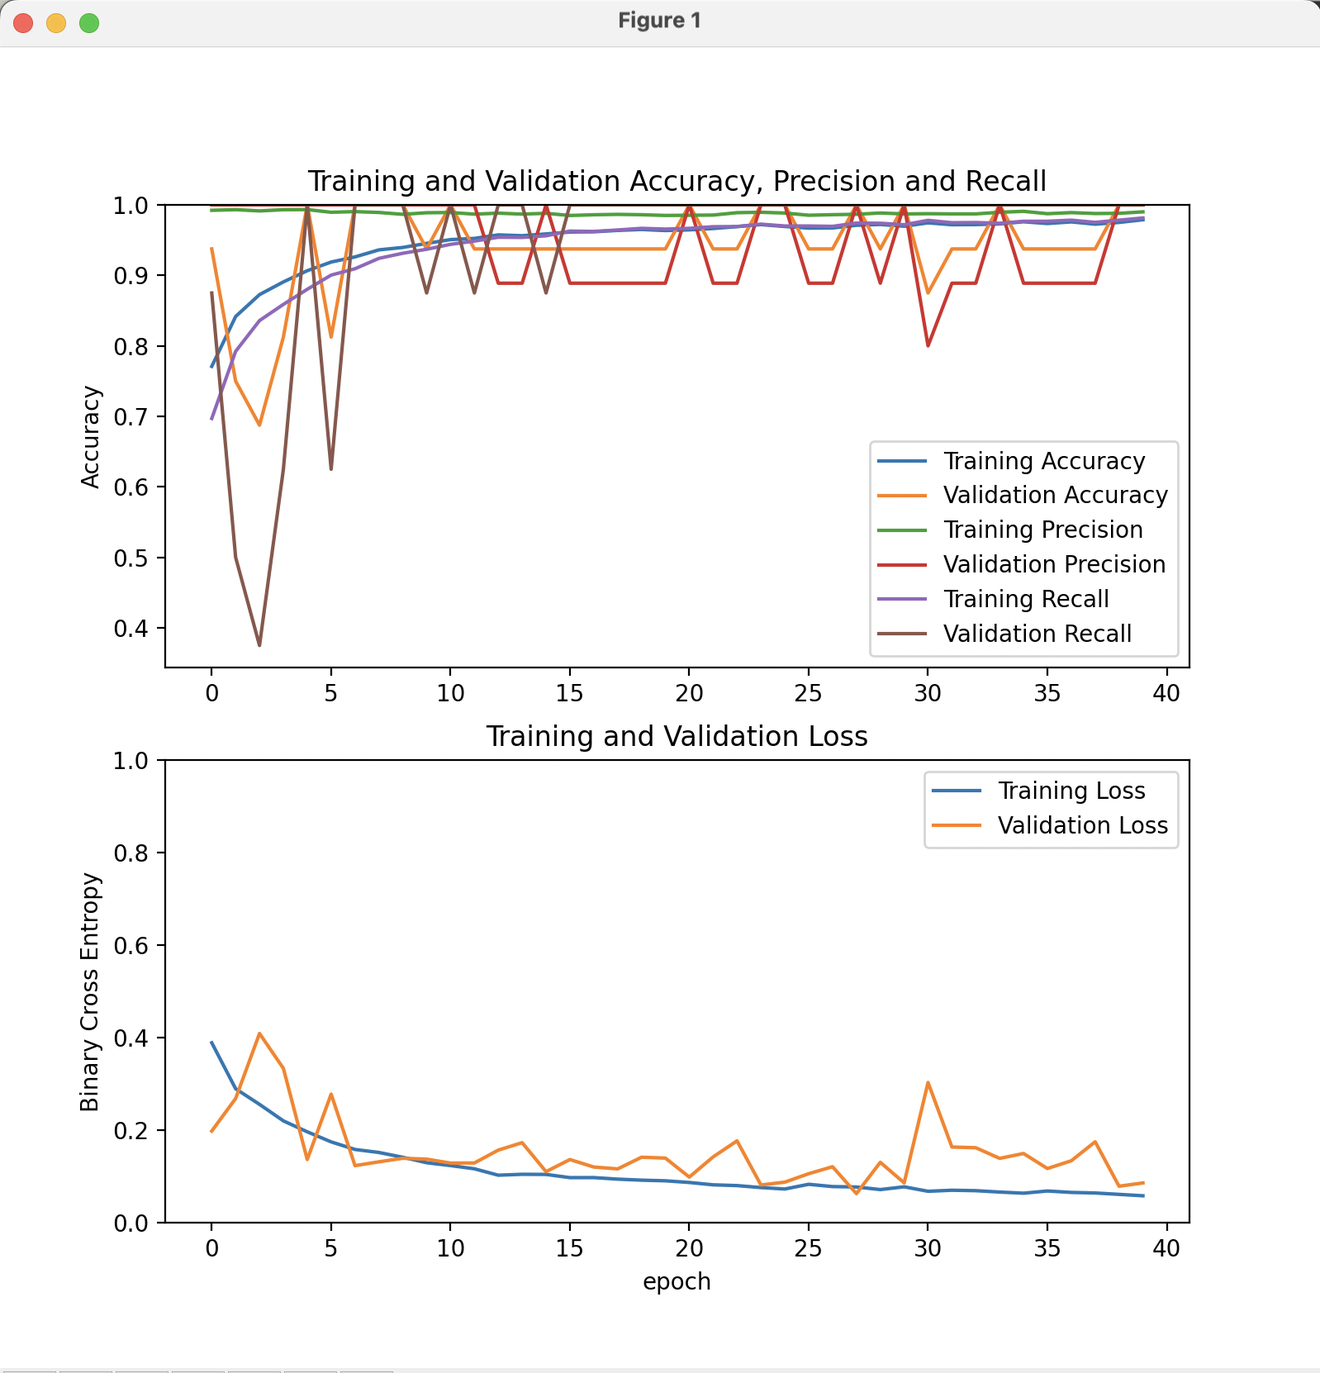
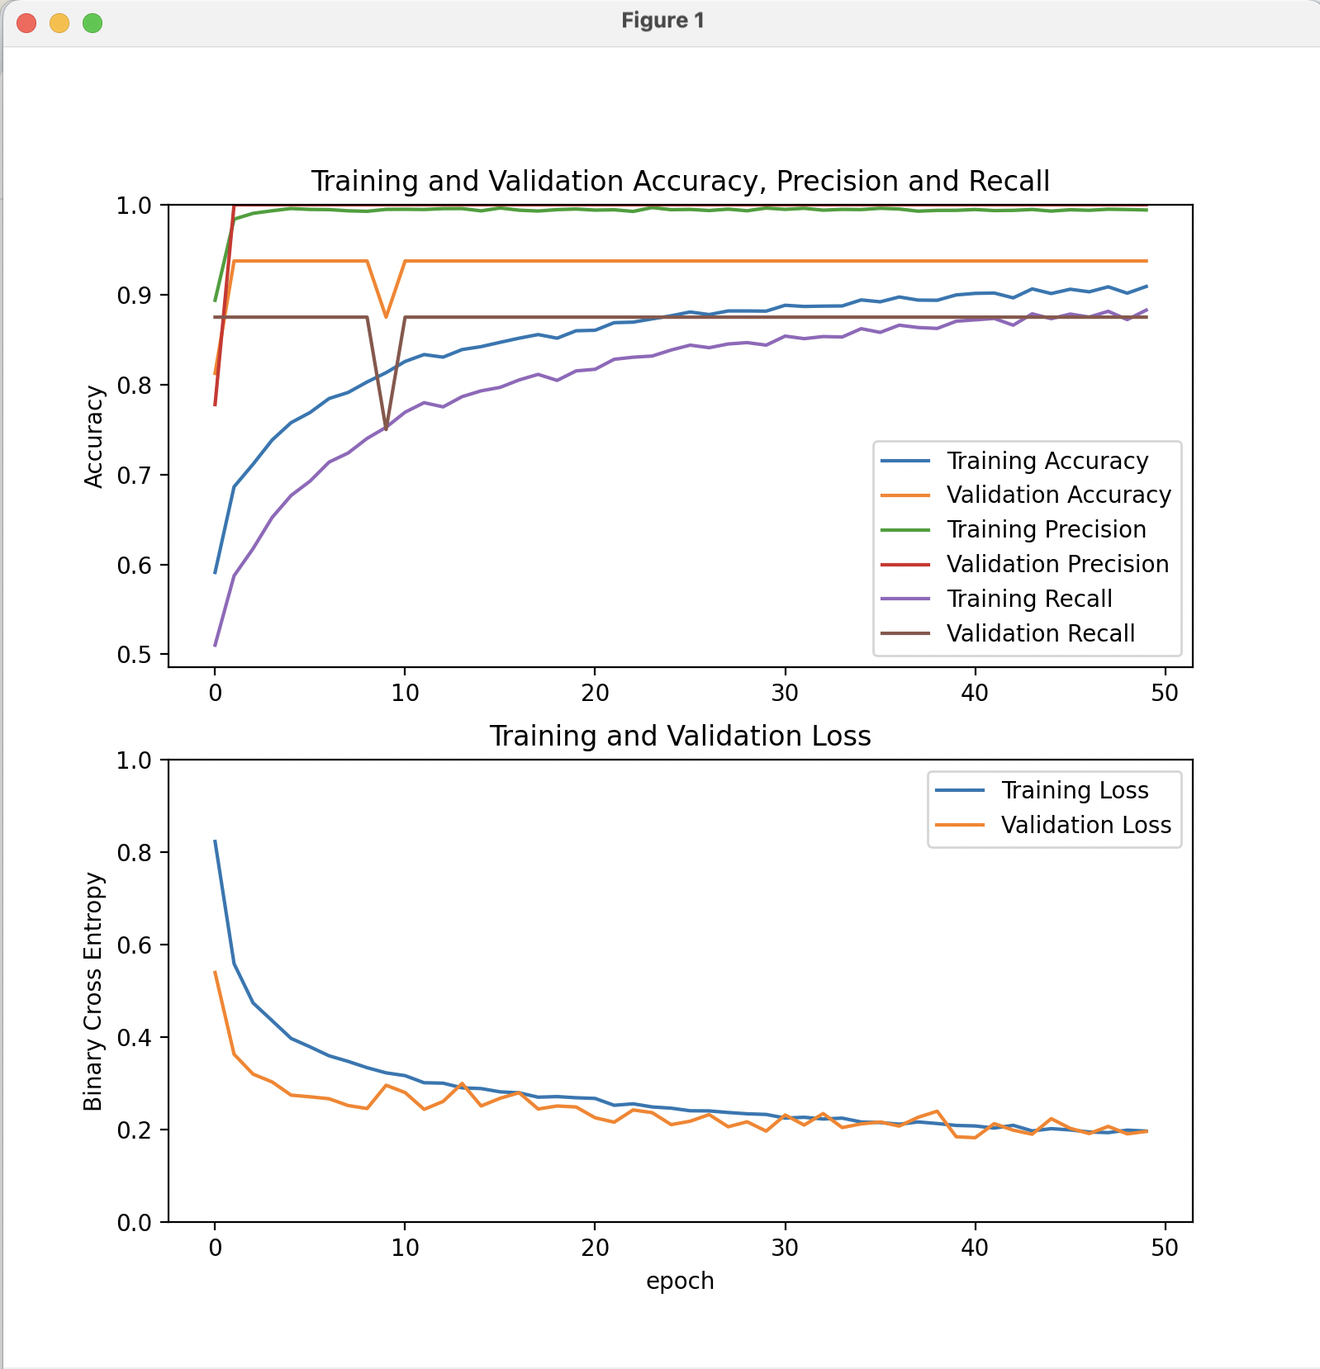
better loss convergence

diff --git a/kaggle/pneumonia/pneumonia.py b/kaggle/pneumonia/pneumonia.py
@@ -28,7 +28,7 @@ def load_images():
         return tf.keras.utils.image_dataset_from_directory(
             directory,
             shuffle=True,
-            batch_size=32,
+            batch_size=64,
             image_size=(image_height, image_width))
 
     return [load_images_for(dir) for dir in [train_dir, val_dir, test_dir]]
@@ -77,7 +77,7 @@ def build_transfer_learning_model():
     outputs = Dense(1)(x)
     model = Model(inputs, outputs, name='pneumonia')
     # WARNING:absl:At this time, the v2.11+ optimizer `tf.keras.optimizers.Adam` runs slowly on M1/M2 Macs, please use the legacy Keras optimizer instead, located at `tf.keras.optimizers.legacy.Adam`.
-    model.compile(optimizer=tf.keras.optimizers.legacy.Adam(learning_rate=.0001),
+    model.compile(optimizer=tf.keras.optimizers.legacy.Adam(learning_rate=.00001),
                   loss=tf.keras.losses.BinaryCrossentropy(from_logits=True),
                   metrics=[tf.keras.metrics.BinaryAccuracy(name='accuracy'),
                            tf.keras.metrics.Precision(name='precision'),
@@ -87,7 +87,7 @@ def build_transfer_learning_model():
 
 
 def train_model(m, train, val, test):
-    hist = m.fit(train, epochs=40, validation_data=val)
+    hist = m.fit(train, epochs=50, validation_data=val)
     loss, accuracy, precision, recall = m.evaluate(test)
     print(f'the accuracy/precision/recall scores on the test dataset: {accuracy:.3f}/{precision:.3f}/{recall:.3f} with a loss of: {loss:.3f}')
 

diff --git a/kaggle/pneumonia/README.md b/kaggle/pneumonia/README.md
@@ -24,90 +24,110 @@ Found 5216 files belonging to 2 classes.
 Found 16 files belonging to 2 classes.
 Found 624 files belonging to 2 classes.
 in the training set 2 class names to classify the images for: ['NORMAL', 'PNEUMONIA']
-image batch shape: (32, 224, 224, 3)
-image label shape: (32,)
-Epoch 1/40
-163/163 [==============================] - 11s 56ms/step - loss: 0.3888 - accuracy: 0.7709 - precision: 0.9923 - recall: 0.6970 - val_loss: 0.1980 - val_accuracy: 0.9375 - val_precision: 1.0000 - val_recall: 0.8750
-Epoch 2/40
-163/163 [==============================] - 8s 49ms/step - loss: 0.2894 - accuracy: 0.8416 - precision: 0.9932 - recall: 0.7923 - val_loss: 0.2684 - val_accuracy: 0.7500 - val_precision: 1.0000 - val_recall: 0.5000
-Epoch 3/40
-163/163 [==============================] - 8s 49ms/step - loss: 0.2557 - accuracy: 0.8727 - precision: 0.9914 - recall: 0.8359 - val_loss: 0.4089 - val_accuracy: 0.6875 - val_precision: 1.0000 - val_recall: 0.3750
-Epoch 4/40
-163/163 [==============================] - 8s 49ms/step - loss: 0.2200 - accuracy: 0.8907 - precision: 0.9931 - recall: 0.8588 - val_loss: 0.3334 - val_accuracy: 0.8125 - val_precision: 1.0000 - val_recall: 0.6250
-Epoch 5/40
-163/163 [==============================] - 8s 48ms/step - loss: 0.1963 - accuracy: 0.9066 - precision: 0.9933 - recall: 0.8803 - val_loss: 0.1364 - val_accuracy: 1.0000 - val_precision: 1.0000 - val_recall: 1.0000
-Epoch 6/40
-163/163 [==============================] - 8s 50ms/step - loss: 0.1746 - accuracy: 0.9189 - precision: 0.9895 - recall: 0.9004 - val_loss: 0.2778 - val_accuracy: 0.8125 - val_precision: 1.0000 - val_recall: 0.6250
-Epoch 7/40
-163/163 [==============================] - 8s 50ms/step - loss: 0.1582 - accuracy: 0.9262 - precision: 0.9904 - recall: 0.9094 - val_loss: 0.1232 - val_accuracy: 1.0000 - val_precision: 1.0000 - val_recall: 1.0000
-Epoch 8/40
-163/163 [==============================] - 8s 49ms/step - loss: 0.1517 - accuracy: 0.9362 - precision: 0.9892 - recall: 0.9241 - val_loss: 0.1315 - val_accuracy: 1.0000 - val_precision: 1.0000 - val_recall: 1.0000
-Epoch 9/40
-163/163 [==============================] - 8s 47ms/step - loss: 0.1413 - accuracy: 0.9396 - precision: 0.9866 - recall: 0.9314 - val_loss: 0.1391 - val_accuracy: 1.0000 - val_precision: 1.0000 - val_recall: 1.0000
-Epoch 10/40
-163/163 [==============================] - 8s 48ms/step - loss: 0.1295 - accuracy: 0.9454 - precision: 0.9888 - recall: 0.9370 - val_loss: 0.1373 - val_accuracy: 0.9375 - val_precision: 1.0000 - val_recall: 0.8750
-Epoch 11/40
-163/163 [==============================] - 8s 48ms/step - loss: 0.1234 - accuracy: 0.9507 - precision: 0.9892 - recall: 0.9440 - val_loss: 0.1288 - val_accuracy: 1.0000 - val_precision: 1.0000 - val_recall: 1.0000
-Epoch 12/40
-163/163 [==============================] - 8s 48ms/step - loss: 0.1164 - accuracy: 0.9525 - precision: 0.9868 - recall: 0.9486 - val_loss: 0.1290 - val_accuracy: 0.9375 - val_precision: 1.0000 - val_recall: 0.8750
-Epoch 13/40
-163/163 [==============================] - 8s 47ms/step - loss: 0.1026 - accuracy: 0.9574 - precision: 0.9882 - recall: 0.9541 - val_loss: 0.1568 - val_accuracy: 0.9375 - val_precision: 0.8889 - val_recall: 1.0000
-Epoch 14/40
-163/163 [==============================] - 8s 48ms/step - loss: 0.1045 - accuracy: 0.9563 - precision: 0.9869 - recall: 0.9538 - val_loss: 0.1728 - val_accuracy: 0.9375 - val_precision: 0.8889 - val_recall: 1.0000
-Epoch 15/40
-163/163 [==============================] - 8s 48ms/step - loss: 0.1042 - accuracy: 0.9588 - precision: 0.9880 - recall: 0.9561 - val_loss: 0.1102 - val_accuracy: 0.9375 - val_precision: 1.0000 - val_recall: 0.8750
-Epoch 16/40
-163/163 [==============================] - 8s 49ms/step - loss: 0.0973 - accuracy: 0.9615 - precision: 0.9850 - recall: 0.9628 - val_loss: 0.1364 - val_accuracy: 0.9375 - val_precision: 0.8889 - val_recall: 1.0000
-Epoch 17/40
-163/163 [==============================] - 8s 48ms/step - loss: 0.0974 - accuracy: 0.9618 - precision: 0.9860 - recall: 0.9623 - val_loss: 0.1202 - val_accuracy: 0.9375 - val_precision: 0.8889 - val_recall: 1.0000
-Epoch 18/40
-163/163 [==============================] - 8s 48ms/step - loss: 0.0941 - accuracy: 0.9638 - precision: 0.9865 - recall: 0.9644 - val_loss: 0.1161 - val_accuracy: 0.9375 - val_precision: 0.8889 - val_recall: 1.0000
-Epoch 19/40
-163/163 [==============================] - 8s 48ms/step - loss: 0.0918 - accuracy: 0.9651 - precision: 0.9860 - recall: 0.9667 - val_loss: 0.1414 - val_accuracy: 0.9375 - val_precision: 0.8889 - val_recall: 1.0000
-Epoch 20/40
-163/163 [==============================] - 8s 47ms/step - loss: 0.0905 - accuracy: 0.9636 - precision: 0.9850 - recall: 0.9657 - val_loss: 0.1395 - val_accuracy: 0.9375 - val_precision: 0.8889 - val_recall: 1.0000
-Epoch 21/40
-163/163 [==============================] - 8s 47ms/step - loss: 0.0868 - accuracy: 0.9645 - precision: 0.9853 - recall: 0.9667 - val_loss: 0.0985 - val_accuracy: 1.0000 - val_precision: 1.0000 - val_recall: 1.0000
-Epoch 22/40
-163/163 [==============================] - 8s 48ms/step - loss: 0.0818 - accuracy: 0.9664 - precision: 0.9856 - recall: 0.9690 - val_loss: 0.1422 - val_accuracy: 0.9375 - val_precision: 0.8889 - val_recall: 1.0000
-Epoch 23/40
-163/163 [==============================] - 8s 47ms/step - loss: 0.0801 - accuracy: 0.9691 - precision: 0.9889 - recall: 0.9693 - val_loss: 0.1767 - val_accuracy: 0.9375 - val_precision: 0.8889 - val_recall: 1.0000
-Epoch 24/40
-163/163 [==============================] - 8s 48ms/step - loss: 0.0758 - accuracy: 0.9720 - precision: 0.9895 - recall: 0.9726 - val_loss: 0.0814 - val_accuracy: 1.0000 - val_precision: 1.0000 - val_recall: 1.0000
-Epoch 25/40
-163/163 [==============================] - 8s 49ms/step - loss: 0.0727 - accuracy: 0.9693 - precision: 0.9884 - recall: 0.9701 - val_loss: 0.0875 - val_accuracy: 1.0000 - val_precision: 1.0000 - val_recall: 1.0000
-Epoch 26/40
-163/163 [==============================] - 8s 48ms/step - loss: 0.0829 - accuracy: 0.9670 - precision: 0.9853 - recall: 0.9701 - val_loss: 0.1058 - val_accuracy: 0.9375 - val_precision: 0.8889 - val_recall: 1.0000
-Epoch 27/40
-163/163 [==============================] - 8s 49ms/step - loss: 0.0780 - accuracy: 0.9672 - precision: 0.9861 - recall: 0.9695 - val_loss: 0.1209 - val_accuracy: 0.9375 - val_precision: 0.8889 - val_recall: 1.0000
-Epoch 28/40
-163/163 [==============================] - 8s 49ms/step - loss: 0.0771 - accuracy: 0.9711 - precision: 0.9867 - recall: 0.9742 - val_loss: 0.0627 - val_accuracy: 1.0000 - val_precision: 1.0000 - val_recall: 1.0000
-Epoch 29/40
-163/163 [==============================] - 8s 48ms/step - loss: 0.0715 - accuracy: 0.9722 - precision: 0.9885 - recall: 0.9739 - val_loss: 0.1304 - val_accuracy: 0.9375 - val_precision: 0.8889 - val_recall: 1.0000
-Epoch 30/40
-163/163 [==============================] - 8s 48ms/step - loss: 0.0774 - accuracy: 0.9697 - precision: 0.9872 - recall: 0.9719 - val_loss: 0.0860 - val_accuracy: 1.0000 - val_precision: 1.0000 - val_recall: 1.0000
-Epoch 31/40
-163/163 [==============================] - 8s 48ms/step - loss: 0.0678 - accuracy: 0.9745 - precision: 0.9875 - recall: 0.9781 - val_loss: 0.3030 - val_accuracy: 0.8750 - val_precision: 0.8000 - val_recall: 1.0000
-Epoch 32/40
-163/163 [==============================] - 8s 48ms/step - loss: 0.0701 - accuracy: 0.9718 - precision: 0.9872 - recall: 0.9747 - val_loss: 0.1635 - val_accuracy: 0.9375 - val_precision: 0.8889 - val_recall: 1.0000
-Epoch 33/40
-163/163 [==============================] - 8s 47ms/step - loss: 0.0691 - accuracy: 0.9720 - precision: 0.9872 - recall: 0.9750 - val_loss: 0.1619 - val_accuracy: 0.9375 - val_precision: 0.8889 - val_recall: 1.0000
-Epoch 34/40
-163/163 [==============================] - 8s 48ms/step - loss: 0.0661 - accuracy: 0.9730 - precision: 0.9895 - recall: 0.9739 - val_loss: 0.1389 - val_accuracy: 1.0000 - val_precision: 1.0000 - val_recall: 1.0000
-Epoch 35/40
-163/163 [==============================] - 8s 48ms/step - loss: 0.0637 - accuracy: 0.9760 - precision: 0.9908 - recall: 0.9768 - val_loss: 0.1494 - val_accuracy: 0.9375 - val_precision: 0.8889 - val_recall: 1.0000
-Epoch 36/40
-163/163 [==============================] - 8s 49ms/step - loss: 0.0684 - accuracy: 0.9735 - precision: 0.9875 - recall: 0.9768 - val_loss: 0.1170 - val_accuracy: 0.9375 - val_precision: 0.8889 - val_recall: 1.0000
-Epoch 37/40
-163/163 [==============================] - 8s 49ms/step - loss: 0.0653 - accuracy: 0.9758 - precision: 0.9890 - recall: 0.9783 - val_loss: 0.1338 - val_accuracy: 0.9375 - val_precision: 0.8889 - val_recall: 1.0000
-Epoch 38/40
-163/163 [==============================] - 8s 48ms/step - loss: 0.0641 - accuracy: 0.9726 - precision: 0.9877 - recall: 0.9752 - val_loss: 0.1748 - val_accuracy: 0.9375 - val_precision: 0.8889 - val_recall: 1.0000
-Epoch 39/40
-163/163 [==============================] - 8s 49ms/step - loss: 0.0611 - accuracy: 0.9751 - precision: 0.9880 - recall: 0.9783 - val_loss: 0.0787 - val_accuracy: 1.0000 - val_precision: 1.0000 - val_recall: 1.0000
-Epoch 40/40
-163/163 [==============================] - 8s 48ms/step - loss: 0.0581 - accuracy: 0.9789 - precision: 0.9901 - recall: 0.9814 - val_loss: 0.0859 - val_accuracy: 1.0000 - val_precision: 1.0000 - val_recall: 1.0000
-20/20 [==============================] - 1s 28ms/step - loss: 0.4931 - accuracy: 0.8558 - precision: 0.8247 - recall: 0.9769
-the accuracy/precision/recall scores on the test dataset: 0.856/0.825/0.977 with a loss of: 0.493
+image batch shape: (64, 224, 224, 3)
+image label shape: (64,)
+Epoch 1/50
+82/82 [==============================] - 9s 79ms/step - loss: 0.8230 - accuracy: 0.5911 - precision: 0.8938 - recall: 0.5102 - val_loss: 0.5395 - val_accuracy: 0.8125 - val_precision: 0.7778 - val_recall: 0.8750
+Epoch 2/50
+82/82 [==============================] - 5s 59ms/step - loss: 0.5588 - accuracy: 0.6863 - precision: 0.9840 - recall: 0.5874 - val_loss: 0.3628 - val_accuracy: 0.9375 - val_precision: 1.0000 - val_recall: 0.8750
+Epoch 3/50
+82/82 [==============================] - 5s 58ms/step - loss: 0.4739 - accuracy: 0.7115 - precision: 0.9905 - recall: 0.6175 - val_loss: 0.3198 - val_accuracy: 0.9375 - val_precision: 1.0000 - val_recall: 0.8750
+Epoch 4/50
+82/82 [==============================] - 5s 60ms/step - loss: 0.4356 - accuracy: 0.7383 - precision: 0.9933 - recall: 0.6521 - val_loss: 0.3030 - val_accuracy: 0.9375 - val_precision: 1.0000 - val_recall: 0.8750
+Epoch 5/50
+82/82 [==============================] - 5s 58ms/step - loss: 0.3971 - accuracy: 0.7577 - precision: 0.9958 - recall: 0.6766 - val_loss: 0.2744 - val_accuracy: 0.9375 - val_precision: 1.0000 - val_recall: 0.8750
+Epoch 6/50
+82/82 [==============================] - 5s 60ms/step - loss: 0.3788 - accuracy: 0.7690 - precision: 0.9948 - recall: 0.6926 - val_loss: 0.2708 - val_accuracy: 0.9375 - val_precision: 1.0000 - val_recall: 0.8750
+Epoch 7/50
+82/82 [==============================] - 5s 59ms/step - loss: 0.3594 - accuracy: 0.7845 - precision: 0.9946 - recall: 0.7138 - val_loss: 0.2666 - val_accuracy: 0.9375 - val_precision: 1.0000 - val_recall: 0.8750
+Epoch 8/50
+82/82 [==============================] - 5s 59ms/step - loss: 0.3475 - accuracy: 0.7912 - precision: 0.9933 - recall: 0.7239 - val_loss: 0.2520 - val_accuracy: 0.9375 - val_precision: 1.0000 - val_recall: 0.8750
+Epoch 9/50
+82/82 [==============================] - 5s 58ms/step - loss: 0.3338 - accuracy: 0.8029 - precision: 0.9927 - recall: 0.7401 - val_loss: 0.2454 - val_accuracy: 0.9375 - val_precision: 1.0000 - val_recall: 0.8750
+Epoch 10/50
+82/82 [==============================] - 5s 59ms/step - loss: 0.3226 - accuracy: 0.8133 - precision: 0.9949 - recall: 0.7525 - val_loss: 0.2958 - val_accuracy: 0.8750 - val_precision: 1.0000 - val_recall: 0.7500
+Epoch 11/50
+82/82 [==============================] - 5s 60ms/step - loss: 0.3166 - accuracy: 0.8257 - precision: 0.9950 - recall: 0.7693 - val_loss: 0.2800 - val_accuracy: 0.9375 - val_precision: 1.0000 - val_recall: 0.8750
+Epoch 12/50
+82/82 [==============================] - 5s 58ms/step - loss: 0.3012 - accuracy: 0.8334 - precision: 0.9947 - recall: 0.7799 - val_loss: 0.2437 - val_accuracy: 0.9375 - val_precision: 1.0000 - val_recall: 0.8750
+Epoch 13/50
+82/82 [==============================] - 5s 59ms/step - loss: 0.3003 - accuracy: 0.8305 - precision: 0.9957 - recall: 0.7752 - val_loss: 0.2608 - val_accuracy: 0.9375 - val_precision: 1.0000 - val_recall: 0.8750
+Epoch 14/50
+82/82 [==============================] - 5s 60ms/step - loss: 0.2902 - accuracy: 0.8390 - precision: 0.9958 - recall: 0.7866 - val_loss: 0.2997 - val_accuracy: 0.9375 - val_precision: 1.0000 - val_recall: 0.8750
+Epoch 15/50
+82/82 [==============================] - 5s 58ms/step - loss: 0.2886 - accuracy: 0.8422 - precision: 0.9932 - recall: 0.7930 - val_loss: 0.2510 - val_accuracy: 0.9375 - val_precision: 1.0000 - val_recall: 0.8750
+Epoch 16/50
+82/82 [==============================] - 5s 58ms/step - loss: 0.2816 - accuracy: 0.8470 - precision: 0.9965 - recall: 0.7969 - val_loss: 0.2677 - val_accuracy: 0.9375 - val_precision: 1.0000 - val_recall: 0.8750
+Epoch 17/50
+82/82 [==============================] - 5s 59ms/step - loss: 0.2794 - accuracy: 0.8516 - precision: 0.9939 - recall: 0.8052 - val_loss: 0.2797 - val_accuracy: 0.9375 - val_precision: 1.0000 - val_recall: 0.8750
+Epoch 18/50
+82/82 [==============================] - 5s 59ms/step - loss: 0.2700 - accuracy: 0.8556 - precision: 0.9931 - recall: 0.8114 - val_loss: 0.2445 - val_accuracy: 0.9375 - val_precision: 1.0000 - val_recall: 0.8750
+Epoch 19/50
+82/82 [==============================] - 5s 59ms/step - loss: 0.2713 - accuracy: 0.8516 - precision: 0.9946 - recall: 0.8046 - val_loss: 0.2509 - val_accuracy: 0.9375 - val_precision: 1.0000 - val_recall: 0.8750
+Epoch 20/50
+82/82 [==============================] - 5s 59ms/step - loss: 0.2688 - accuracy: 0.8599 - precision: 0.9953 - recall: 0.8152 - val_loss: 0.2488 - val_accuracy: 0.9375 - val_precision: 1.0000 - val_recall: 0.8750
+Epoch 21/50
+82/82 [==============================] - 5s 59ms/step - loss: 0.2673 - accuracy: 0.8604 - precision: 0.9940 - recall: 0.8170 - val_loss: 0.2254 - val_accuracy: 0.9375 - val_precision: 1.0000 - val_recall: 0.8750
+Epoch 22/50
+82/82 [==============================] - 5s 57ms/step - loss: 0.2525 - accuracy: 0.8689 - precision: 0.9944 - recall: 0.8281 - val_loss: 0.2159 - val_accuracy: 0.9375 - val_precision: 1.0000 - val_recall: 0.8750
+Epoch 23/50
+82/82 [==============================] - 5s 59ms/step - loss: 0.2557 - accuracy: 0.8694 - precision: 0.9926 - recall: 0.8305 - val_loss: 0.2424 - val_accuracy: 0.9375 - val_precision: 1.0000 - val_recall: 0.8750
+Epoch 24/50
+82/82 [==============================] - 5s 58ms/step - loss: 0.2489 - accuracy: 0.8731 - precision: 0.9969 - recall: 0.8317 - val_loss: 0.2366 - val_accuracy: 0.9375 - val_precision: 1.0000 - val_recall: 0.8750
+Epoch 25/50
+82/82 [==============================] - 5s 59ms/step - loss: 0.2462 - accuracy: 0.8765 - precision: 0.9945 - recall: 0.8385 - val_loss: 0.2107 - val_accuracy: 0.9375 - val_precision: 1.0000 - val_recall: 0.8750
+Epoch 26/50
+82/82 [==============================] - 5s 58ms/step - loss: 0.2406 - accuracy: 0.8808 - precision: 0.9948 - recall: 0.8439 - val_loss: 0.2180 - val_accuracy: 0.9375 - val_precision: 1.0000 - val_recall: 0.8750
+Epoch 27/50
+82/82 [==============================] - 5s 57ms/step - loss: 0.2403 - accuracy: 0.8779 - precision: 0.9936 - recall: 0.8410 - val_loss: 0.2324 - val_accuracy: 0.9375 - val_precision: 1.0000 - val_recall: 0.8750
+Epoch 28/50
+82/82 [==============================] - 5s 59ms/step - loss: 0.2369 - accuracy: 0.8819 - precision: 0.9951 - recall: 0.8452 - val_loss: 0.2060 - val_accuracy: 0.9375 - val_precision: 1.0000 - val_recall: 0.8750
+Epoch 29/50
+82/82 [==============================] - 5s 59ms/step - loss: 0.2341 - accuracy: 0.8819 - precision: 0.9933 - recall: 0.8467 - val_loss: 0.2168 - val_accuracy: 0.9375 - val_precision: 1.0000 - val_recall: 0.8750
+Epoch 30/50
+82/82 [==============================] - 5s 56ms/step - loss: 0.2327 - accuracy: 0.8817 - precision: 0.9963 - recall: 0.8439 - val_loss: 0.1966 - val_accuracy: 0.9375 - val_precision: 1.0000 - val_recall: 0.8750
+Epoch 31/50
+82/82 [==============================] - 5s 58ms/step - loss: 0.2248 - accuracy: 0.8882 - precision: 0.9949 - recall: 0.8539 - val_loss: 0.2315 - val_accuracy: 0.9375 - val_precision: 1.0000 - val_recall: 0.8750
+Epoch 32/50
+82/82 [==============================] - 5s 58ms/step - loss: 0.2266 - accuracy: 0.8869 - precision: 0.9961 - recall: 0.8511 - val_loss: 0.2098 - val_accuracy: 0.9375 - val_precision: 1.0000 - val_recall: 0.8750
+Epoch 33/50
+82/82 [==============================] - 5s 59ms/step - loss: 0.2228 - accuracy: 0.8873 - precision: 0.9940 - recall: 0.8534 - val_loss: 0.2346 - val_accuracy: 0.9375 - val_precision: 1.0000 - val_recall: 0.8750
+Epoch 34/50
+82/82 [==============================] - 5s 59ms/step - loss: 0.2247 - accuracy: 0.8875 - precision: 0.9949 - recall: 0.8529 - val_loss: 0.2043 - val_accuracy: 0.9375 - val_precision: 1.0000 - val_recall: 0.8750
+Epoch 35/50
+82/82 [==============================] - 5s 59ms/step - loss: 0.2164 - accuracy: 0.8942 - precision: 0.9946 - recall: 0.8622 - val_loss: 0.2123 - val_accuracy: 0.9375 - val_precision: 1.0000 - val_recall: 0.8750
+Epoch 36/50
+82/82 [==============================] - 5s 59ms/step - loss: 0.2152 - accuracy: 0.8921 - precision: 0.9961 - recall: 0.8581 - val_loss: 0.2164 - val_accuracy: 0.9375 - val_precision: 1.0000 - val_recall: 0.8750
+Epoch 37/50
+82/82 [==============================] - 5s 59ms/step - loss: 0.2115 - accuracy: 0.8974 - precision: 0.9953 - recall: 0.8661 - val_loss: 0.2075 - val_accuracy: 0.9375 - val_precision: 1.0000 - val_recall: 0.8750
+Epoch 38/50
+82/82 [==============================] - 5s 59ms/step - loss: 0.2165 - accuracy: 0.8940 - precision: 0.9929 - recall: 0.8635 - val_loss: 0.2266 - val_accuracy: 0.9375 - val_precision: 1.0000 - val_recall: 0.8750
+Epoch 39/50
+82/82 [==============================] - 5s 59ms/step - loss: 0.2130 - accuracy: 0.8938 - precision: 0.9938 - recall: 0.8625 - val_loss: 0.2397 - val_accuracy: 0.9375 - val_precision: 1.0000 - val_recall: 0.8750
+Epoch 40/50
+82/82 [==============================] - 5s 59ms/step - loss: 0.2089 - accuracy: 0.8997 - precision: 0.9938 - recall: 0.8705 - val_loss: 0.1844 - val_accuracy: 0.9375 - val_precision: 1.0000 - val_recall: 0.8750
+Epoch 41/50
+82/82 [==============================] - 5s 58ms/step - loss: 0.2078 - accuracy: 0.9015 - precision: 0.9947 - recall: 0.8720 - val_loss: 0.1823 - val_accuracy: 0.9375 - val_precision: 1.0000 - val_recall: 0.8750
+Epoch 42/50
+82/82 [==============================] - 5s 57ms/step - loss: 0.2032 - accuracy: 0.9018 - precision: 0.9935 - recall: 0.8735 - val_loss: 0.2127 - val_accuracy: 0.9375 - val_precision: 1.0000 - val_recall: 0.8750
+Epoch 43/50
+82/82 [==============================] - 5s 58ms/step - loss: 0.2091 - accuracy: 0.8965 - precision: 0.9938 - recall: 0.8661 - val_loss: 0.1986 - val_accuracy: 0.9375 - val_precision: 1.0000 - val_recall: 0.8750
+Epoch 44/50
+82/82 [==============================] - 5s 59ms/step - loss: 0.1971 - accuracy: 0.9064 - precision: 0.9947 - recall: 0.8787 - val_loss: 0.1900 - val_accuracy: 0.9375 - val_precision: 1.0000 - val_recall: 0.8750
+Epoch 45/50
+82/82 [==============================] - 5s 59ms/step - loss: 0.2019 - accuracy: 0.9013 - precision: 0.9930 - recall: 0.8733 - val_loss: 0.2235 - val_accuracy: 0.9375 - val_precision: 1.0000 - val_recall: 0.8750
+Epoch 46/50
+82/82 [==============================] - 5s 59ms/step - loss: 0.1992 - accuracy: 0.9061 - precision: 0.9944 - recall: 0.8785 - val_loss: 0.2026 - val_accuracy: 0.9375 - val_precision: 1.0000 - val_recall: 0.8750
+Epoch 47/50
+82/82 [==============================] - 5s 60ms/step - loss: 0.1948 - accuracy: 0.9032 - precision: 0.9938 - recall: 0.8751 - val_loss: 0.1913 - val_accuracy: 0.9375 - val_precision: 1.0000 - val_recall: 0.8750
+Epoch 48/50
+82/82 [==============================] - 5s 59ms/step - loss: 0.1933 - accuracy: 0.9087 - precision: 0.9950 - recall: 0.8815 - val_loss: 0.2068 - val_accuracy: 0.9375 - val_precision: 1.0000 - val_recall: 0.8750
+Epoch 49/50
+82/82 [==============================] - 5s 59ms/step - loss: 0.1988 - accuracy: 0.9016 - precision: 0.9947 - recall: 0.8723 - val_loss: 0.1907 - val_accuracy: 0.9375 - val_precision: 1.0000 - val_recall: 0.8750
+Epoch 50/50
+82/82 [==============================] - 5s 58ms/step - loss: 0.1967 - accuracy: 0.9091 - precision: 0.9942 - recall: 0.8828 - val_loss: 0.1959 - val_accuracy: 0.9375 - val_precision: 1.0000 - val_recall: 0.8750
+10/10 [==============================] - 1s 68ms/step - loss: 0.3102 - accuracy: 0.8670 - precision: 0.8866 - recall: 0.9026
+the accuracy/precision/recall scores on the test dataset: 0.867/0.887/0.903 with a loss of: 0.310
 ```
 
 The learning curves of the accuracy/precision/recall metrics look as the following:
@@ -120,4 +140,4 @@ Finally the created environment above can be removed through:
 conda remove --name pneumonia --all
 ```
 
-The achieved accuracy/precision/recall scores on the test dataset is `0.856/0.825/0.977` as it can be spotted by the last line of the log output above.
+The achieved accuracy/precision/recall scores on the test dataset is `.867/.887/.903` as it can be spotted by the last line of the log output above.
